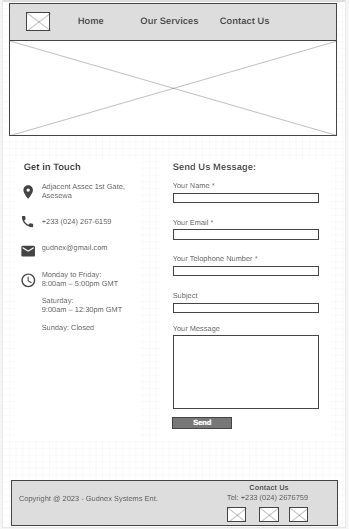
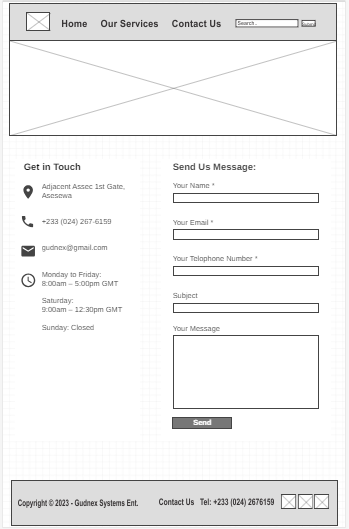
week 13 and siteplan update

Changed region(s): [[0.5731, 0.9074, 0.9456, 0.9981], [0.1719, 0.0302, 0.9169, 0.0605], [0.0573, 0.9376, 0.5444, 0.9679]]

diff --git a/gudnex/site-plan.html b/gudnex/site-plan.html
@@ -90,6 +90,12 @@
         <a href="#">Home</a>
         <a href="#">Our Services</a>
         <a href="#">Contact Us</a>
+        <div class="search-container">
+          <form action="#">
+            <input type="text" placeholder="Search.." name="search">
+            <button type="submit">Submit</button>
+          </form>
+      </div>
       </nav>
       <hr>
       <h2>
